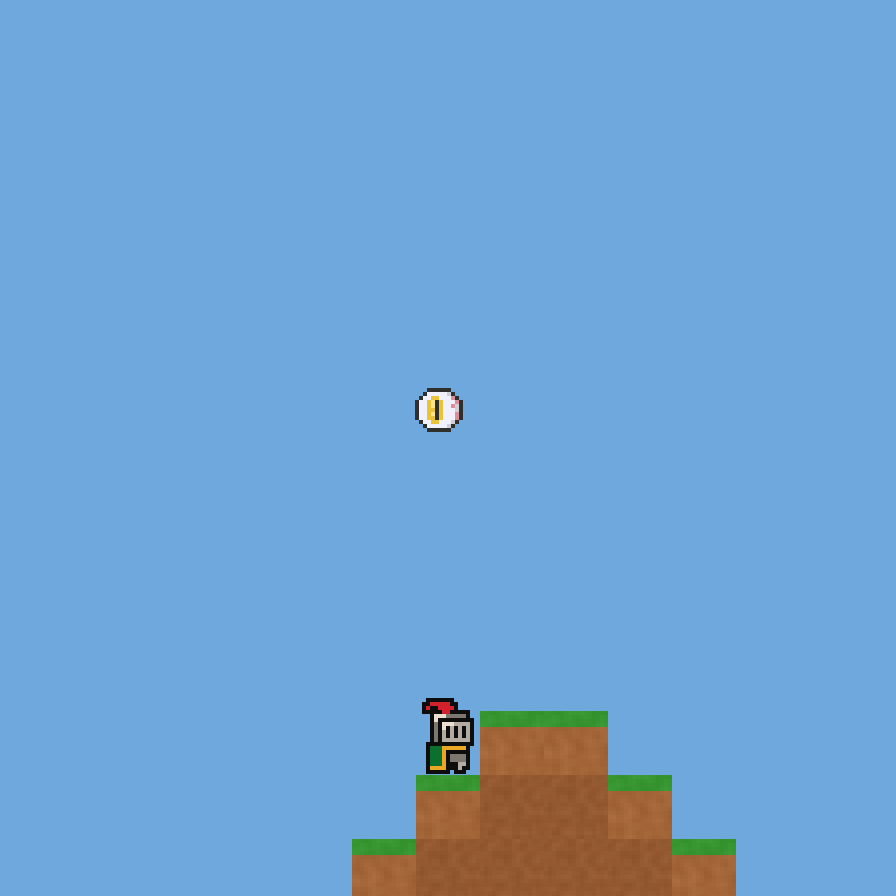
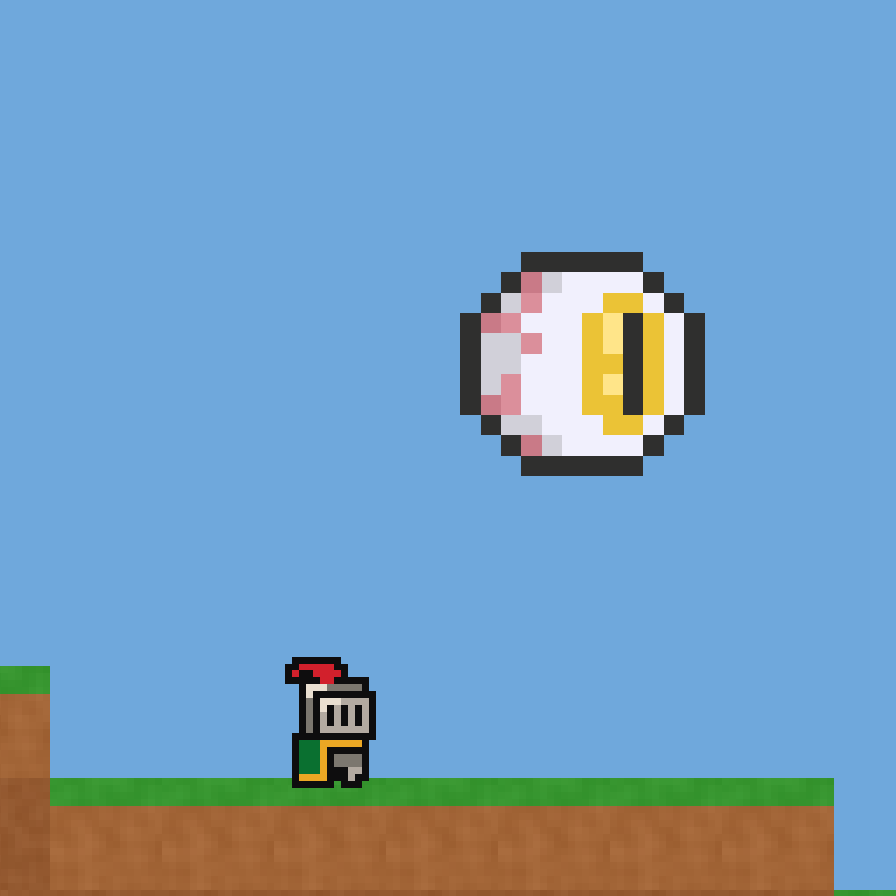
Fix boss visual size

Changed region(s): [[0.0, 0.7188, 1.0, 1.0], [0.4375, 0.2812, 0.8125, 0.5312]]

diff --git a/Perraria/docs/codex-reports/023-boss-and-summon.md b/Perraria/docs/codex-reports/023-boss-and-summon.md
@@ -46,6 +46,13 @@ These were captured from controlled Unity MCP Play Mode validation states.
 - Knight sword combat duration: MCP harness used `PlayerCombat.EvaluateHits` with `Item_KnightSword` stats; `40` hits at `10` damage, `0.35s` swing duration, `14.00s` to HP 0, and drop count `3` after death.
 - Console check: no compile errors or runtime errors; only unrelated Unity AI Toolkit account-access warnings were present.
 
+## Review Fix
+
+- Fixed the review blocker where the Boss rendered smaller than the player. The boss sprite sheet sub-sprites were alpha-trimmed while preserving `Sprite Mode=Multiple`, `PPU=32`, point filtering, and uncompressed import settings.
+- Trim verification: frame `0` is now `12x11`, frame `8` is `12x11`, and frame `24` is `3x5`. Existing sprite internal IDs were preserved and the Boss animation arrays still reference the intended frames.
+- `EyeOfCorruption.prefab` keeps root `Transform.scale=(2,2,1)` and the existing `CircleCollider2D.radius=0.45`. The `SpriteRenderer` now lives on a `Visual` child with `localScale=(2.909,2.909,1)`, making the Phase 1 idle sprite render at `2.00` world units tall without changing the hit box.
+- Replaced `023-boss-and-summon-images/02-phase1-idle.png` after the fix. Runtime MCP summon capture logged `Phase1Hover`, sprite `EyeOfCorruption_00`, Boss visual height `2.00`, and player renderer height `1.30`.
+
 ## Implementation Notes
 
 - `EyeOfCorruption` inherits `Enemy` but keeps its own internal `BossPhase` enum, so the shared `EnemyState` enum was not expanded.